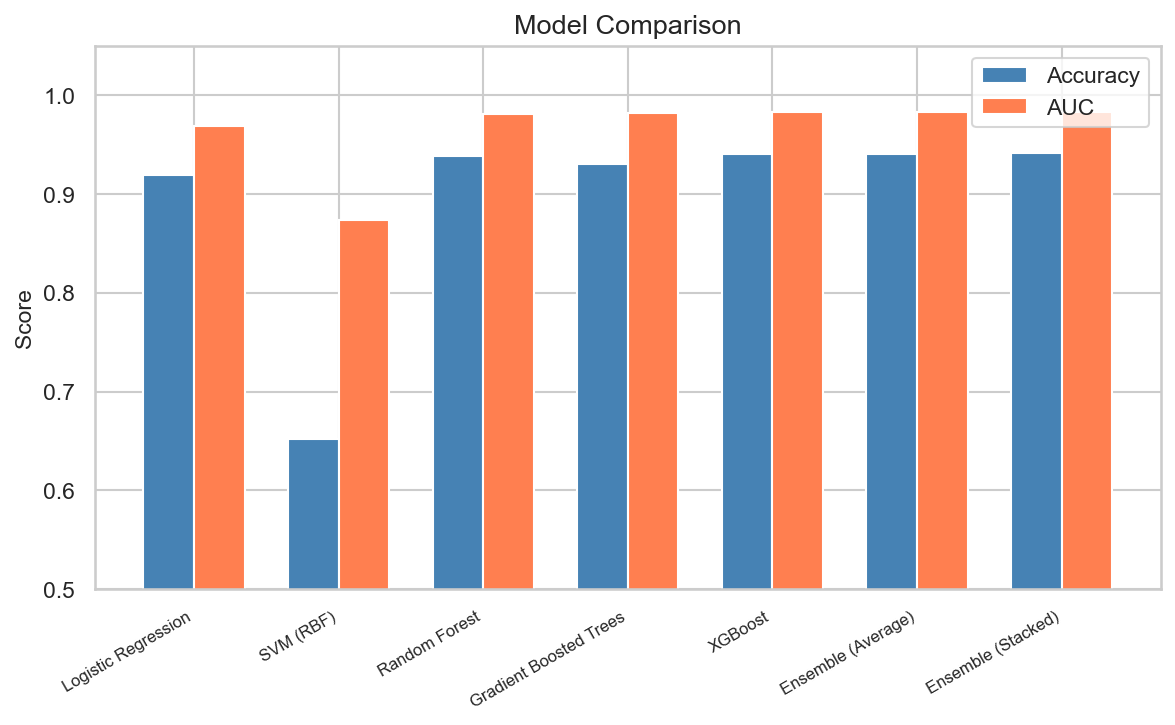
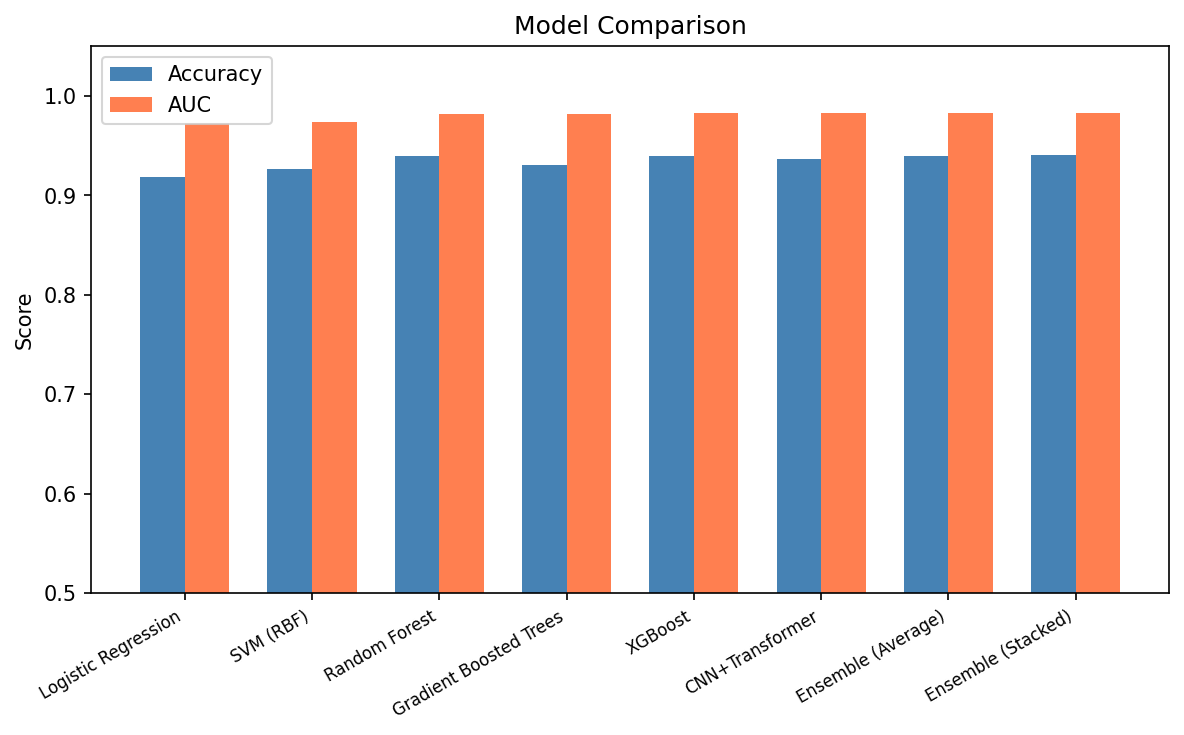
Improve reproducibility and harden preprocessing edge cases
- Seed torch/CUDA/numpy/Python RNGs inside train_dl_classifier and give
  the DataLoader a dedicated seeded generator so CNN+Transformer results
  are reproducible across runs.
- Add RXPACC == 0 to the degenerate-sample filter in preprocessing.py
  to prevent divide-by-zero during CIR normalization. Currently zero
  such rows in the dataset, but the guard closes a silent failure mode
  where zero-CIR rows would otherwise propagate through peak detection.
- Introduce src/config.py as a central source for shared constants
  (RANDOM_STATE, DL_SEED, SMOTE_TARGET_RATIO, CIR augmentation params,
  RF_SMOTE_N_ESTIMATORS). Migrate main.py to import from it; per-module
  random_state=42 constants left in place in src/classification.py etc.
  to avoid touching tuned numbers.
- Hoist mid-function sklearn imports (RFECV, RandomForestClassifier,
  sklearn.metrics) in main.py to module scope.
- Rename the "FAIR COMPARISON" print block in main.py to
  "CROSS-PIPELINE REFERENCE EVALUATION" with an inline note that ML and
  DL receive different input representations and this is not a
  controlled benchmark. Matches existing framing in the IEEE report.
- Guard dl_res in the DL+ML fusion block so it is self-contained and
  label the fusion printout as "non-aug DL" for clarity.
- Regenerate all 24 plot PNGs from the reproducible pipeline run.

diff --git a/main.py b/main.py
@@ -21,6 +21,10 @@ Libraries: numpy, and all project modules under src/
 
 from src import visualization as viz
 from src.clustering import run_kmeans_analysis, run_elbow_silhouette_analysis, run_dbscan_analysis
+from src.config import (
+    RANDOM_STATE, DL_SEED, SMOTE_TARGET_RATIO, RF_SMOTE_N_ESTIMATORS,
+    CIR_AUG_FACTOR, CIR_NOISE_LEVEL, CIR_MAX_SHIFT, CIR_SCALE_RANGE,
+)
 from src.ensemble import build_ensemble
 from src.synthetic_data import apply_smote, generate_augmented_cir, evaluate_synthetic_impact
 from src.dl_training import train_dl_classifier
@@ -30,6 +34,12 @@ from src.feature_engineering import build_features
 from src.peak_detection import extract_two_paths
 from src.preprocessing import preprocess, scale_and_split, SCALAR_FEATURES
 from src.data_loader import load_dataset
+from sklearn.ensemble import RandomForestClassifier
+from sklearn.feature_selection import RFECV
+from sklearn.metrics import (
+    accuracy_score, roc_curve, auc as sk_auc, confusion_matrix,
+    accuracy_score as acc_fn, roc_curve as roc_fn, auc as auc_fn,
+)
 import numpy as np
 import warnings
 from sklearn.exceptions import ConvergenceWarning
@@ -107,7 +117,6 @@ def main():
     print("\n" + "=" * 60)
     print("STEP 5a: Recursive Feature Elimination (RFE)")
     print("=" * 60)
-    from sklearn.feature_selection import RFECV
     best_rf = cls_results['Random Forest']['model']
     rfecv = RFECV(
         estimator=best_rf, step=1, cv=3, scoring='accuracy',
@@ -122,6 +131,7 @@ def main():
     ranked = sorted(zip(feature_names, rfecv.ranking_), key=lambda x: x[1])
     for fname, rank in ranked[:10]:
         print(f"    {rank:2d}. {fname}")
+    # Note: RFECV and sklearn.metrics are now imported at module scope (top of file)
 
     # ── Step 5b: Deep Learning on Raw CIR ────────────────────────────
     # Train CNN+Transformer directly on the raw 1016-sample CIR waveforms
@@ -157,14 +167,12 @@ def main():
     # --- SMOTE on ML feature vectors ---
     print("\n>> SMOTE augmentation for ML classifiers")
     X_smote, y_smote, n_smote = apply_smote(
-        X_train_cls, y_train_cls, target_ratio=0.5)
+        X_train_cls, y_train_cls, target_ratio=SMOTE_TARGET_RATIO)
 
     # Re-train the best ML model (Random Forest) with SMOTE-augmented data
-    from sklearn.ensemble import RandomForestClassifier
-    from sklearn.metrics import accuracy_score, roc_curve, auc as sk_auc, confusion_matrix
     rf_smote = RandomForestClassifier(
-        n_estimators=300, max_depth=None, class_weight='balanced',
-        random_state=42,
+        n_estimators=RF_SMOTE_N_ESTIMATORS, max_depth=None,
+        class_weight='balanced', random_state=RANDOM_STATE,
     )
     rf_smote.fit(X_smote, y_smote)
     y_pred_smote = rf_smote.predict(X_test_cls)
@@ -183,8 +191,9 @@ def main():
     print("\n>> CIR waveform augmentation for CNN+Transformer")
     cir_aug, scalar_aug, label_aug, n_cir_synth = generate_augmented_cir(
         X_cir_train, X_scalar_train, y_dl_train,
-        augmentation_factor=3, noise_level=0.08, max_shift=4,
-        scale_range=(0.80, 1.20), random_state=42,
+        augmentation_factor=CIR_AUG_FACTOR, noise_level=CIR_NOISE_LEVEL,
+        max_shift=CIR_MAX_SHIFT, scale_range=CIR_SCALE_RANGE,
+        random_state=RANDOM_STATE,
     )
 
     dl_result_aug = train_dl_classifier(
@@ -331,18 +340,26 @@ def main():
     viz.plot_annotated_cir(df, path1_idx, path1_amp, path2_idx, path2_amp,
                            cls_results, features_df)
 
-    # ── Fair Comparison: ML vs DL on balanced test set ──────────────
+    # ── Cross-Pipeline Reference Evaluation ─────────────────────────
+    # NOTE: This is NOT a strictly controlled benchmark. ML models receive
+    # the 25-dim hand-crafted feature vector while the DL model receives the
+    # raw 1016-sample CIR plus 11 scalar features. The two are evaluated on
+    # the same underlying samples (the original 50/50 balanced Path-1 test
+    # split), but the input representations differ — so results should be
+    # read as cross-pipeline reference points rather than an apples-to-apples
+    # comparison. This framing matches the discussion in the IEEE report.
     print("\n" + "=" * 60)
-    print("FAIR COMPARISON: ML vs DL on Original Balanced Test Set (Path 1 only)")
+    print("CROSS-PIPELINE REFERENCE EVALUATION (balanced Path-1 test set)")
+    print("  (different input representations — not a controlled benchmark)")
     print("=" * 60)
     # Evaluate ML models on the original balanced test set (path1 only, 50/50 class balance)
     X_test_fair = features_df.iloc[test_idx].values
     y_test_fair = labels_cls[test_idx]
-    print(f"  Fair test set: {len(y_test_fair)} samples "
+    print(f"  Balanced test set: {len(y_test_fair)} samples "
           f"(LOS={int((y_test_fair == 0).sum())}, NLOS={int((y_test_fair == 1).sum())})")
 
-    from sklearn.metrics import accuracy_score as acc_fn, roc_curve as roc_fn, auc as auc_fn
-    # Evaluate individual ML models on fair test set (skip ensembles — handled separately below)
+    # acc_fn/roc_fn/auc_fn are aliased at module scope (top of file)
+    # Evaluate individual ML models on balanced test set (skip ensembles — handled separately below)
     ml_model_names = ['Logistic Regression', 'Random Forest', 'Gradient Boosted Trees',
                       'XGBoost']
     for name in ml_model_names:
@@ -357,22 +374,28 @@ def main():
         print(f"  {name:30s}: Accuracy={acc_fair:.4f}, AUC={auc_fair:.4f}")
 
     # DL model on its own balanced test set (already evaluated)
-    if 'CNN+Transformer' in cls_results:
-        dl_res = cls_results['CNN+Transformer']
+    # dl_res is initialised here so downstream fusion can reference it safely
+    # even if the CNN+Transformer block failed earlier (we skip fusion in that case).
+    dl_res = cls_results.get('CNN+Transformer')
+    if dl_res is not None:
         print(
             f"  {'CNN+Transformer':30s}: Accuracy={dl_res['accuracy']:.4f}, AUC={dl_res['auc']:.4f}")
 
     # ── DL+ML Ensemble Fusion ─────────────────────────────────────
-    # Average best ML ensemble probabilities with DL probabilities on balanced test set
+    # Average best ML ensemble probabilities with DL probabilities on balanced test set.
+    # NOTE: the DL probabilities used here come from the ORIGINAL (non-augmented)
+    # CNN+Transformer run. The augmented DL model is not re-evaluated on the
+    # fair test set because its training set was synthetically expanded and
+    # its stored y_prob is on the same balanced test set anyway.
     best_ml_names = [n for n in ['Random Forest', 'Gradient Boosted Trees', 'XGBoost']
                      if n in cls_results and 'model' in cls_results[n]]
-    if 'CNN+Transformer' in cls_results and len(best_ml_names) >= 2:
+    if dl_res is not None and len(best_ml_names) >= 2:
         ml_fair_probs = np.column_stack([
             cls_results[n]['model'].predict_proba(X_test_fair)[:, 1]
             for n in best_ml_names
         ])
         ml_ens_prob = ml_fair_probs.mean(axis=1)
-        # DL already evaluated on balanced test set
+        # DL already evaluated on balanced test set (original, non-augmented model)
         dl_prob_fair = dl_res['y_prob']
         combined_prob = 0.5 * ml_ens_prob + 0.5 * dl_prob_fair
         combined_pred = (combined_prob >= 0.5).astype(int)
@@ -380,7 +403,7 @@ def main():
         fpr_c, tpr_c, _ = roc_fn(y_test_fair, combined_prob)
         auc_combined = auc_fn(fpr_c, tpr_c)
         print(
-            f"  {'DL+ML Ensemble Fusion':30s}: Accuracy={acc_combined:.4f}, AUC={auc_combined:.4f}")
+            f"  {'DL+ML Fusion (non-aug DL)':30s}: Accuracy={acc_combined:.4f}, AUC={auc_combined:.4f}")
 
     # Ensemble models: re-evaluate on fair test set
     base_names_fair = [n for n in ['Random Forest', 'Gradient Boosted Trees', 'XGBoost']

diff --git a/src/dl_training.py b/src/dl_training.py
@@ -68,9 +68,28 @@ def _get_device():
     return torch.device('cpu')
 
 
+def _seed_everything(seed=42):
+    """
+    Seed Python, NumPy, and PyTorch (CPU + CUDA) RNGs for reproducible
+    deep-learning runs. Without this, weight initialisation, DataLoader
+    shuffling, and dropout masks vary across runs and the CNN+Transformer
+    accuracy/AUC drift by ~0.5% between otherwise identical invocations.
+    """
+    import random
+    random.seed(seed)
+    np.random.seed(seed)
+    torch.manual_seed(seed)
+    if torch.cuda.is_available():
+        torch.cuda.manual_seed_all(seed)
+    # Deterministic cuDNN trades a small amount of throughput for reproducibility
+    torch.backends.cudnn.deterministic = True
+    torch.backends.cudnn.benchmark = False
+
+
 def train_dl_classifier(X_cir_train, X_scalar_train, y_train,
                          X_cir_test, X_scalar_test, y_test,
-                         lr=1e-3, batch_size=256, max_epochs=50, patience=5):
+                         lr=1e-3, batch_size=256, max_epochs=50, patience=5,
+                         seed=42):
     """
     Train the CNN+Transformer model and return results dict compatible
     with the existing classification pipeline.
@@ -99,8 +118,12 @@ def train_dl_classifier(X_cir_train, X_scalar_train, y_train,
         dict: {model, y_pred, y_prob, accuracy, auc, confusion_matrix,
                fpr, tpr, report} — compatible with ML pipeline results.
     """
+    # Seed all RNGs before any model/DataLoader construction so that weight
+    # initialisation, shuffling, and dropout are reproducible across runs.
+    _seed_everything(seed)
+
     device = _get_device()
-    print(f"\n--- CNN+Transformer (device: {device}) ---")
+    print(f"\n--- CNN+Transformer (device: {device}, seed: {seed}) ---")
 
     # ── Initialise model ─────────────────────────────────────────────
     n_scalar = X_scalar_train.shape[1]  # Number of scalar features (11)
@@ -109,8 +132,12 @@ def train_dl_classifier(X_cir_train, X_scalar_train, y_train,
     # ── Create DataLoaders for batched training/assessment ───────────
     train_ds = CIRDataset(X_cir_train, X_scalar_train, y_train)
     test_ds = CIRDataset(X_cir_test, X_scalar_test, y_test)
+    # Dedicated generator ensures DataLoader shuffling is seeded too
+    loader_generator = torch.Generator()
+    loader_generator.manual_seed(seed)
     train_loader = DataLoader(train_ds, batch_size=batch_size, shuffle=True,
-                              num_workers=0, pin_memory=True)
+                              num_workers=0, pin_memory=True,
+                              generator=loader_generator)
     test_loader = DataLoader(test_ds, batch_size=batch_size, shuffle=False,
                              num_workers=0, pin_memory=True)
 

diff --git a/src/config.py b/src/config.py
@@ -1,0 +1,48 @@
+"""
+config.py — Central configuration constants for the UWB LOS/NLOS pipeline.
+
+This module holds seeds, split ratios, and a handful of hyperparameters that
+are referenced from more than one place in the codebase. The intent is to
+provide a single authoritative source so that changing, for example, the
+random seed only has to happen once.
+
+Migration status (intentionally partial to keep report numbers stable):
+    - main.py and dl_training.py import from here.
+    - Per-module src/ files still hold their own random_state=42 constants.
+      Migrating them all would require re-running the full pipeline and is
+      deferred until after the current report submission.
+
+When extending this file, add only values that are genuinely shared. Values
+used in exactly one place belong next to that usage.
+"""
+
+# ── Reproducibility ───────────────────────────────────────────────
+# Seed used by numpy, sklearn, and PyTorch. Keep this aligned with the
+# random_state=42 constants currently hardcoded in the src/ modules.
+RANDOM_STATE = 42
+
+# Dedicated seed for the deep-learning pipeline. Currently the same as
+# RANDOM_STATE; split out so it can be varied independently when doing
+# DL-only reruns without disturbing the ML classifier / regressor numbers.
+DL_SEED = 42
+
+# ── Train/test split ──────────────────────────────────────────────
+# Fraction of samples reserved for the test split in scale_and_split.
+# Stratified by the NLOS label to preserve class balance.
+TEST_SIZE = 0.2
+
+# ── Synthetic data augmentation ───────────────────────────────────
+# SMOTE target ratio: minority class is resampled to reach this fraction
+# of the majority class count in the expanded two-path dataset.
+SMOTE_TARGET_RATIO = 0.5
+
+# CIR waveform augmentation for the CNN+Transformer pipeline.
+CIR_AUG_FACTOR = 3
+CIR_NOISE_LEVEL = 0.08
+CIR_MAX_SHIFT = 4
+CIR_SCALE_RANGE = (0.80, 1.20)
+
+# ── SMOTE-retrained RF ────────────────────────────────────────────
+# Hyperparameters for the Random Forest that is re-fit on the SMOTE-augmented
+# training set inside the synthetic-data experiment block of main.py.
+RF_SMOTE_N_ESTIMATORS = 300

diff --git a/src/preprocessing.py b/src/preprocessing.py
@@ -72,10 +72,12 @@ def preprocess(df):
         print(f"Missing values check: 0 missing (dataset is clean)")
 
     # Step 0b: Flag and remove degenerate samples
-    # RANGE=0 (physically impossible measurement) and CIR_PWR=0 (no received power)
-    # are hardware errors, not meaningful NLOS artifacts.  These are distinct from
-    # large-valued "outliers" which are genuine NLOS signal characteristics.
-    degenerate_mask = (df['RANGE'] == 0) | (df['CIR_PWR'] == 0)
+    # RANGE=0 (physically impossible measurement), CIR_PWR=0 (no received power),
+    # and RXPACC=0 (no preamble accumulation — would cause divide-by-zero during
+    # CIR normalization in Step 2) are hardware errors, not meaningful NLOS
+    # artifacts. These are distinct from large-valued "outliers" which are genuine
+    # NLOS signal characteristics.
+    degenerate_mask = (df['RANGE'] == 0) | (df['CIR_PWR'] == 0) | (df['RXPACC'] == 0)
     n_degenerate = degenerate_mask.sum()
     if n_degenerate > 0:
         print(f"Removed {n_degenerate} degenerate samples (RANGE=0 or CIR_PWR=0)")
